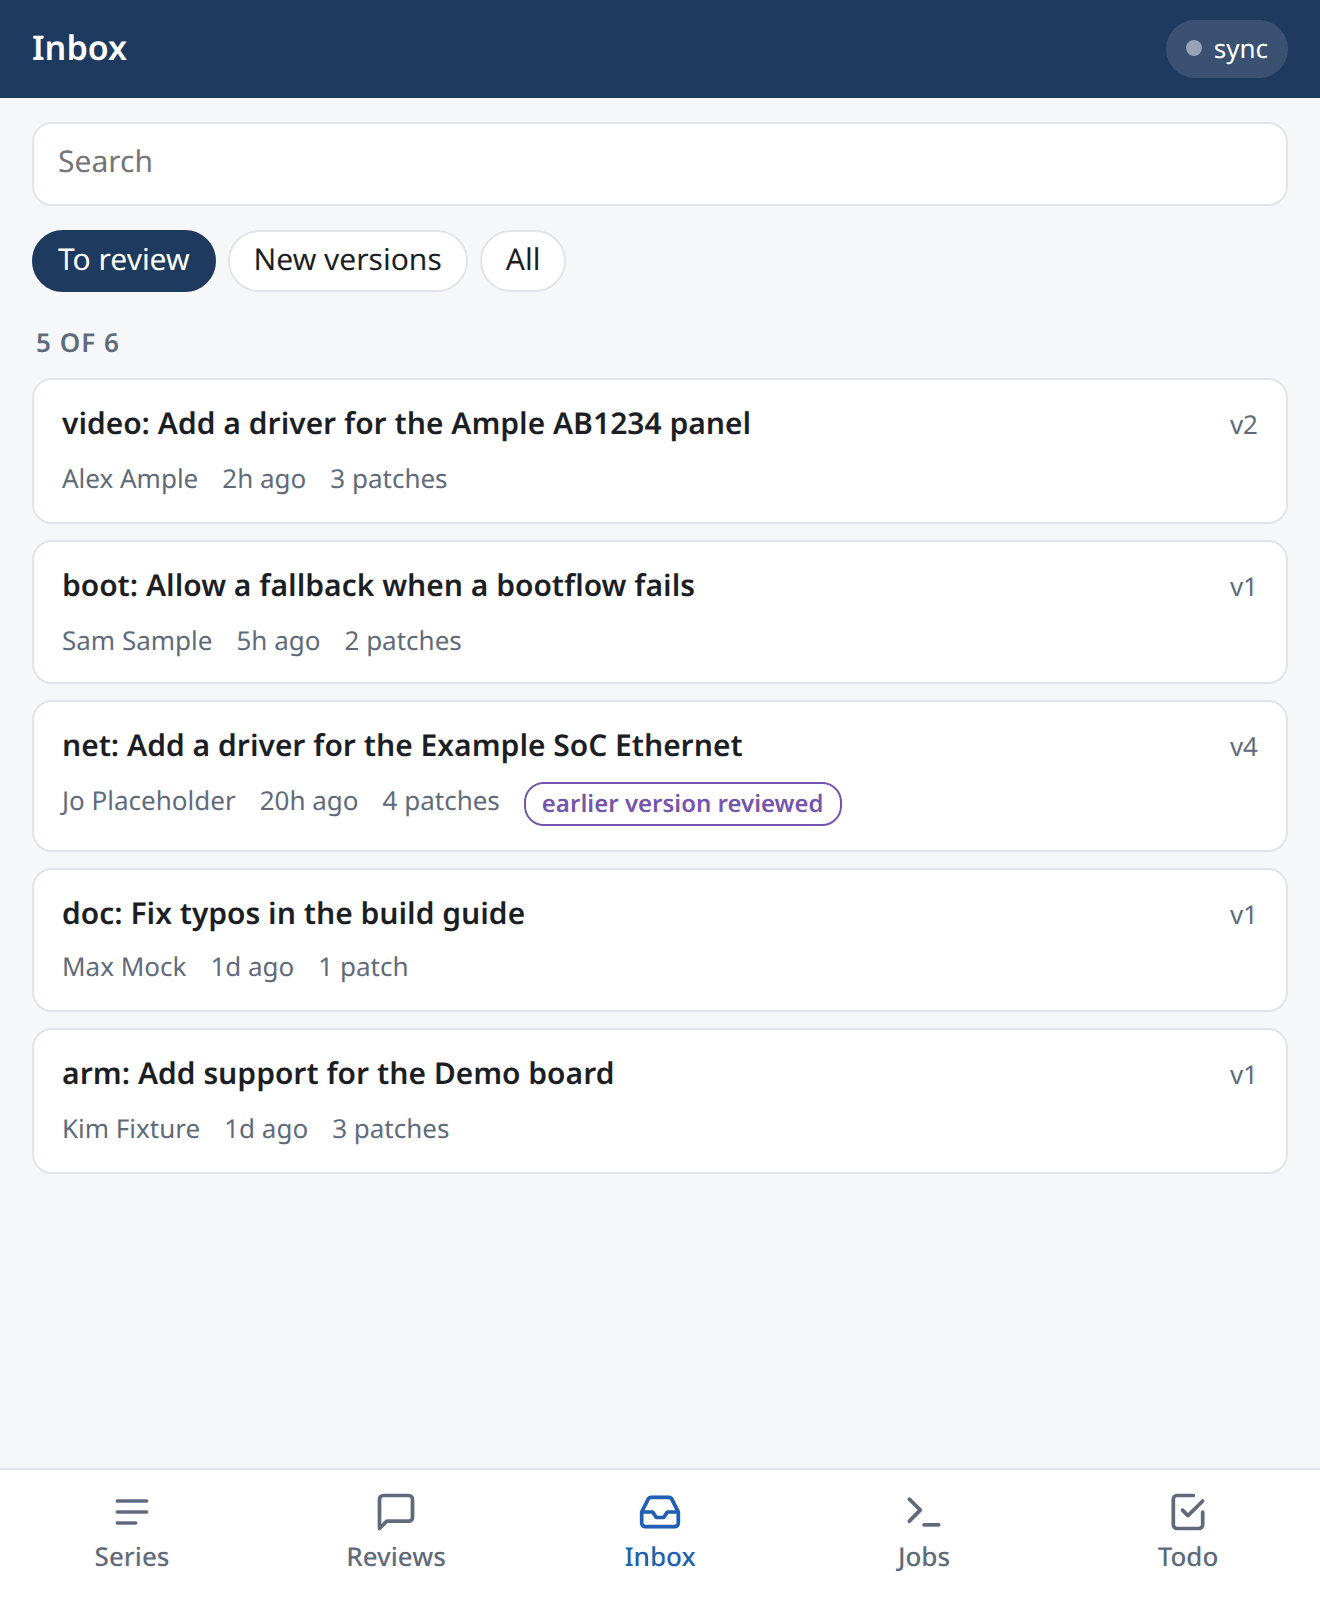
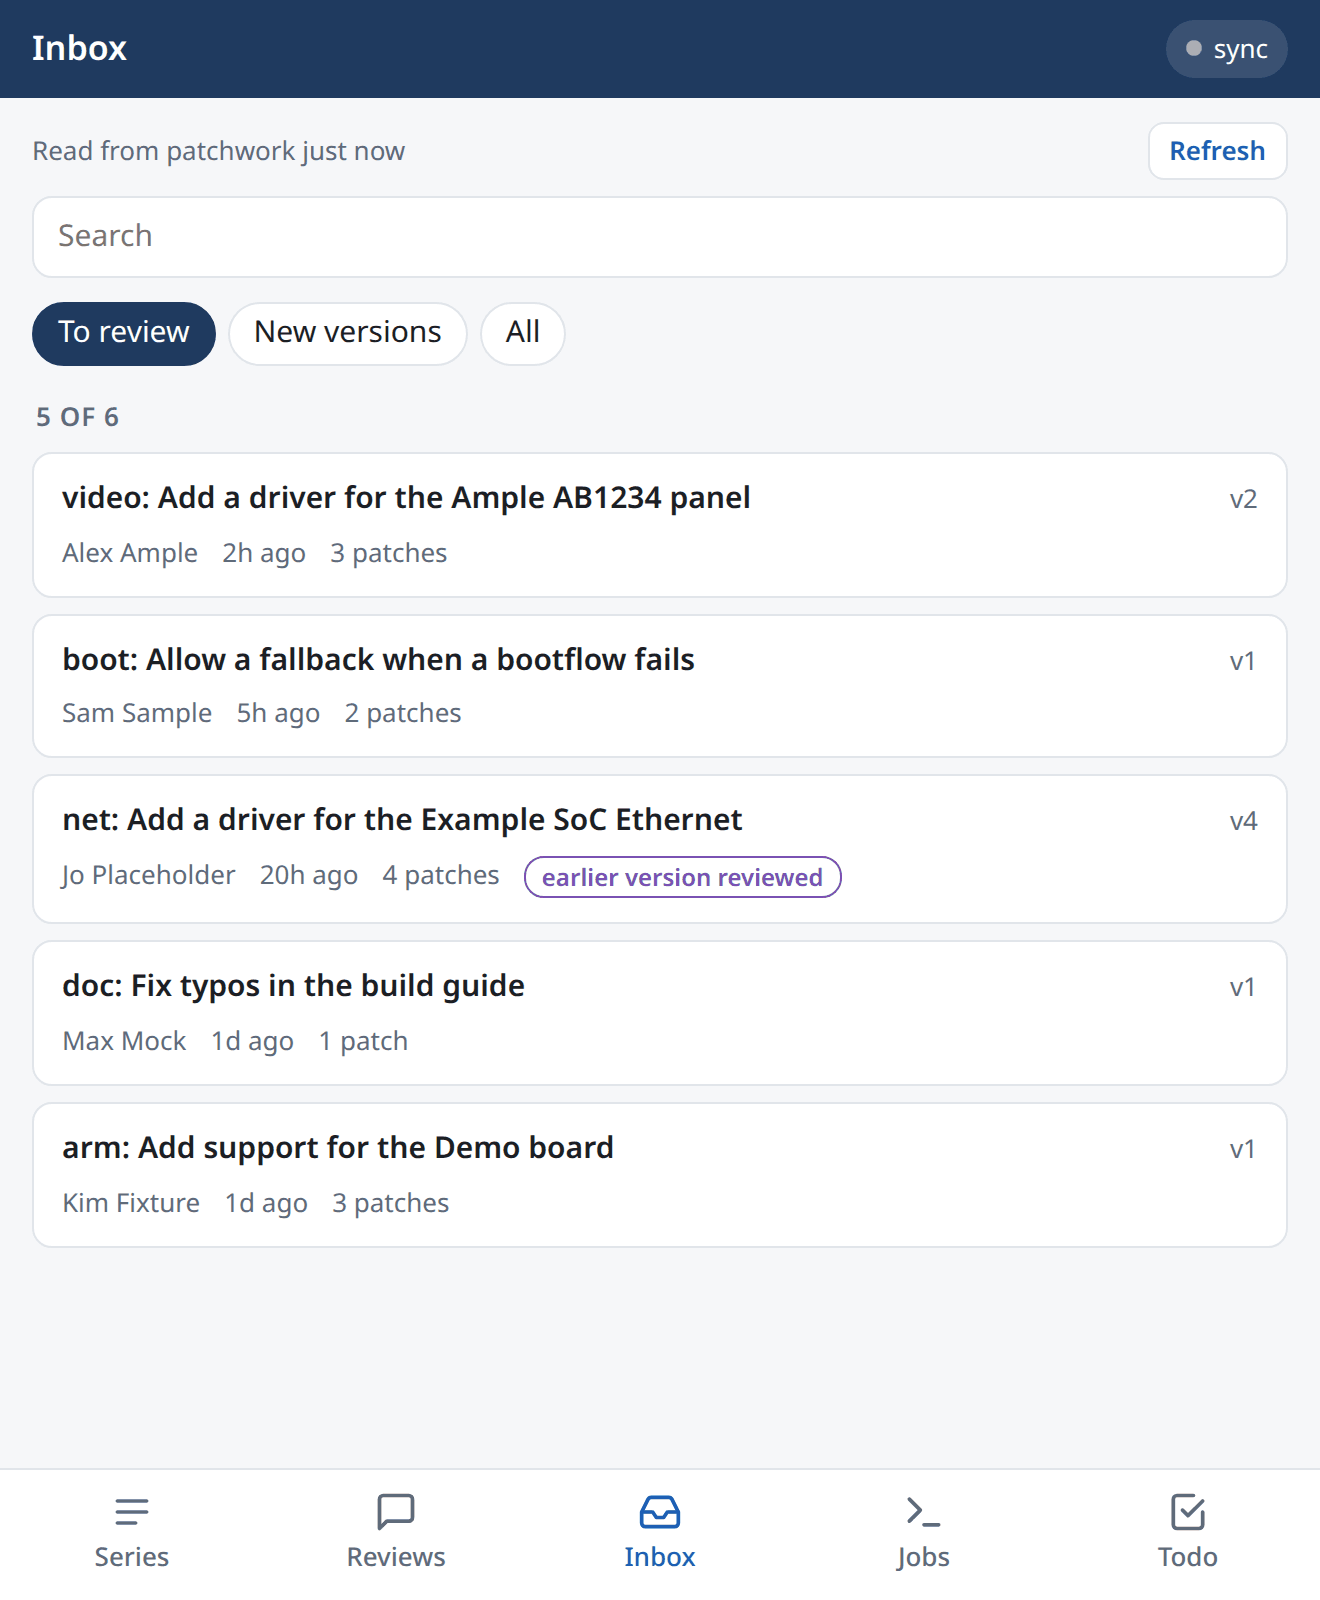
serve: Keep the inbox read from patchwork for ten minutes
The server reads the inbox from patchwork each time it is shown, so
switching to another tab and back, or opening the page on a phone as
well as the desk, sends the same request again, though the newest
series on patchwork change only now and then.

Keep each page of the inbox which the server reads, for each patchwork
server and project, for INBOX_KEEP seconds (ten minutes), timed from
when it reads the first page. Reading the first page again drops the
others, so that 'Load more' follows on from it. GET /api/inbox gives
'fetched', saying when the first page was read, and takes 'refresh=1'
to read it from patchwork anyway.

The inbox says when it was read, with 'Refresh' to read it again. Take
the guide's picture of the inbox again, since it shows this now.

Co-developed-by: Claude Opus 5.5 <noreply@anthropic.com>

diff --git a/patman/web/app.js b/patman/web/app.js
@@ -1766,7 +1766,9 @@ function inboxCard(s, ups, pw) {
   return { card, text: `${s.name} ${s.submitter || ''}`, groups };
 }
 
-async function viewInbox(more) {
+// Show the inbox; 'more' adds the next page, and 'refresh' has the server read
+// it from patchwork again rather than use what it read in the last few minutes
+async function viewInbox(more, refresh) {
   const upstreams = await api('upstreams').catch(() => []);
   let ups = null;
   try { ups = localStorage.getItem('patman-inbox-ups'); } catch (e) { /* ignore */ }
@@ -1777,7 +1779,9 @@ async function viewInbox(more) {
   if (!more || !inbox || inbox.ups !== ups) {
     inbox = { ups, page: 0, series: [], done: false };
   }
-  const data = await api(`inbox?ups=${encodeURIComponent(ups)}&page=${inbox.page + 1}`);
+  const data = await api(`inbox?ups=${encodeURIComponent(ups)}&page=${inbox.page + 1}` +
+                         (refresh ? '&refresh=1' : ''));
+  if (inbox.page === 0) inbox.fetched = data.fetched;
   inbox.page = data.page;
   inbox.series.push(...data.series);
   inbox.done = data.series.length < data.per_page;
@@ -1795,7 +1799,14 @@ async function viewInbox(more) {
       ev.target.disabled = true;
       viewInbox(true).catch((err) => showError(err, 'inbox'));
     } }, 'Load more'));
-  setView('Inbox', 'inbox', false, upsTabs,
+  const fetched = h('div', { class: 'row fetched' },
+    h('span', { class: 'grow ver' }, `Read from patchwork ${ago(parseTime(inbox.fetched))}`),
+    h('button', { class: 'btn light small', title: 'Read the newest series from patchwork again',
+                  onclick: (ev) => {
+      ev.target.disabled = true;
+      viewInbox(false, true).catch((err) => showError(err, 'inbox'));
+    } }, 'Refresh'));
+  setView('Inbox', 'inbox', false, upsTabs, fetched,
     ...filteredList('inbox', inbox.series.map((s) => inboxCard(s, ups, pw)),
                     [['todo', 'To review',
                       'Series which you have not reviewed and are not yours'],

diff --git a/patman/web/app.css b/patman/web/app.css
@@ -101,6 +101,7 @@ nav a.active { color: var(--link); }
 a.card:active { background: var(--code-bg); }
 .row { display: flex; align-items: baseline; gap: 8px; }
 .row .grow { flex: 1; min-width: 0; }
+.row.fetched { align-items: center; margin-bottom: 8px; }
 .name { font-weight: 600; overflow-wrap: anywhere; }
 .desc { color: var(--muted); font-size: 14px; margin-top: 2px; overflow-wrap: anywhere; }
 .meta { color: var(--muted); font-size: 13px; margin-top: 6px;

diff --git a/patman/server/app.py b/patman/server/app.py
@@ -14,6 +14,7 @@ import ipaddress
 import os
 import re
 import subprocess
+import time
 
 import aiohttp
 from aiohttp import web
@@ -40,6 +41,10 @@ JOBS_FNAME = '.patman-serve-jobs.json'
 
 # Number of series in each page of the inbox
 INBOX_PAGE = 50
+
+# Seconds for which the inbox read from patchwork is kept, so that showing it
+# again does not read it again
+INBOX_KEEP = 10 * 60
 
 
 # Arguments of 'patman review' which act on stored reviews rather than review
@@ -109,6 +114,12 @@ class Server(jobs.JobRunner):
 
         # Reviewed versions which patchwork says have no cover letter
         self._no_cover = set()
+
+        # The inbox for each patchwork server and project, as read from it:
+        # a dict with 'read' (monotonic time), 'fetched' (time, as in the
+        # database) and 'pages' (dict of page number to list of series)
+        self._inbox_kept = {}
+        self._clock = time.monotonic
 
     def get_pw_url(self, ups):
         """Get the patchwork URL for an upstream
@@ -732,6 +743,11 @@ class Server(jobs.JobRunner):
         The 'ups' query parameter selects the upstream, defaulting to the
         default one, and 'page' selects the page of results.
 
+        What is read from patchwork is kept for INBOX_KEEP seconds, so that
+        showing the inbox again, from this page or another, does not read it
+        again; 'refresh=1' reads it anyway. Reading the first page again
+        drops the others, so that they follow on from it.
+
         Args:
             request (web.Request): Request
 
@@ -749,15 +765,27 @@ class Server(jobs.JobRunner):
         if not proj:
             raise ValueError(f"No patchwork project for upstream '{ups}'")
         pwork = self.get_pwork(ups)
-        async with aiohttp.ClientSession() as client:
-            series_list = await pwork.get_recent_series(client, proj[2], page,
-                                                        INBOX_PAGE)
+        key = (pwork.url, proj[2])
+        kept = self._inbox_kept.get(key)
+        if (request.query.get('refresh') == '1' or not kept or
+                (page == 1 and self._clock() - kept['read'] > INBOX_KEEP)):
+            kept = None
+        series_list = kept and kept['pages'].get(page)
+        if series_list is None:
+            async with aiohttp.ClientSession() as client:
+                series_list = await pwork.get_recent_series(
+                    client, proj[2], page, INBOX_PAGE)
+            if not kept:
+                kept = {'read': self._clock(), 'fetched': times.now_str(),
+                        'pages': {}}
+                self._inbox_kept[key] = kept
+            kept['pages'][page] = series_list
         series = info.get_inbox(self.cser, self.rcser, series_list)
         for item in series:
             item['job'] = self._reviewing(item['id'])
         return web.json_response({
             'ups': ups, 'page': page, 'per_page': INBOX_PAGE,
-            'series': series})
+            'fetched': kept['fetched'], 'series': series})
 
     def _job_state(self, job):
         """Get the state of a job, with the reviewed series it acts on

diff --git a/patman/test_server.py b/patman/test_server.py
@@ -1480,6 +1480,54 @@ class TestWebServer(unittest.TestCase, TestCommon):
             f'Series 400 is already being reviewed, by job {reviewing.idnum}',
             data['error'])
 
+    def test_inbox_keep(self):
+        """The inbox is kept for a while, rather than read each time"""
+        db = self.cser.db
+        db.upstream_add('us', 'https://us', 'https://pw.us')
+        db.upstream_set_default('us')
+        db.patchwork_update('U-Boot', 6, 'uboot', 'us')
+        db.commit()
+
+        reads = []
+        def read(subpath):
+            reads.append(subpath)
+            return [{'id': len(reads), 'name': 'video: Add a driver',
+                     'version': 1, 'patches': []}]
+
+        srv = self.make_server()
+        srv.pwork_for_testing.fake_request = read
+        now = [1000.0]
+        srv._clock = lambda: now[0]
+        query = 'series/?project=uboot&order=-date&page={}&per_page=50'
+
+        def inbox(args=''):
+            status, data = self.call(srv, 'GET', f'/api/inbox{args}')
+            self.assertEqual(200, status)
+            return data['series'][0]['id'], data['fetched']
+
+        with mock.patch.object(server.app.times, 'now_str',
+                               return_value='2026-10-19 11:00:00'):
+            self.assertEqual((1, '2026-10-19 11:00:00'), inbox())
+
+        # Showing it again, or its next page twice, reads only that page
+        now[0] += server.app.INBOX_KEEP
+        self.assertEqual((1, '2026-10-19 11:00:00'), inbox())
+        self.assertEqual(2, inbox('?page=2')[0])
+        self.assertEqual(2, inbox('?page=2')[0])
+        self.assertEqual([query.format(1), query.format(2)], reads)
+
+        # Once it is too old, it is read again, along with the next page
+        now[0] += 1
+        with mock.patch.object(server.app.times, 'now_str',
+                               return_value='2026-10-19 11:10:01'):
+            self.assertEqual((3, '2026-10-19 11:10:01'), inbox())
+        self.assertEqual(4, inbox('?page=2')[0])
+
+        # A refresh reads it at once
+        self.assertEqual(5, inbox('?refresh=1')[0])
+        self.assertEqual(5, inbox()[0])
+        self.assertEqual(5, len(reads))
+
     def test_patchwork_retry(self):
         """Patchwork requests are retried when the server is slow or busy"""
         calls = []

diff --git a/patman/serve.rst b/patman/serve.rst
@@ -135,10 +135,13 @@ Series which you have reviewed, or which are your own, are marked, as are new
 versions of series you reviewed earlier, so it is easy to see what needs a
 review. Tap a series to see its patches and start a review.
 
-The inbox is read from patchwork each time it is shown, one request for the 50
-newest series. Nothing more is read until you tap 'Load more' at the bottom,
-which reads the next 50; the button goes once patchwork has no more. Tapping a
-series uses what was read already, while reading a patch asks patchwork for it.
+The inbox is read from patchwork with one request for the 50 newest series.
+The server keeps what it reads for ten minutes, so going back to the Inbox tab,
+or opening it on another device, does not read it again; the top of the inbox
+says when it was read, and 'Refresh' reads it again at once. Nothing more is
+read until you tap 'Load more' at the bottom, which reads the next 50; the
+button goes once patchwork has no more. Tapping a series uses what was read
+already, while reading a patch asks patchwork for it.
 
 'Review' on a series starts the review as a job, but the inbox stays where it
 is, so you can start reviews of other series too. Each series shows how its

diff --git a/doc/serve-protocol.rst b/doc/serve-protocol.rst
@@ -283,8 +283,16 @@ The upstreams which have a patchwork server, each an object with ``name``,
 The most recent series on the patchwork server of an upstream, for choosing
 what to review. The ``ups`` query parameter gives the upstream, defaulting to
 the default upstream, which must have a patchwork project. The ``page`` query
-parameter gives the page, starting at 1, with 50 series on each. The response
-has ``ups``, ``page``, ``per_page`` and ``series``, a list of objects with:
+parameter gives the page, starting at 1, with 50 series on each.
+
+The server keeps each page it reads from patchwork for ten minutes, timed
+from when it read the first page, and reading the first page again drops
+the others. With ``refresh=1``, it reads the page from patchwork whatever it
+has kept.
+
+The response has ``ups``, ``page``, ``per_page``, ``fetched`` (when the
+server read the first page from patchwork, as a local time like
+``2026-10-19 11:00:00``) and ``series``, a list of objects with:
 
 - ``id`` (int): patchwork series ID
 - ``name`` (str): name of the series

diff --git a/doc/guide/serve-reviews.rst b/doc/guide/serve-reviews.rst
@@ -53,7 +53,9 @@ Choosing a series
 
 The Inbox tab lists the newest series on patchwork. 'To review' shows those
 which you have not reviewed and which are not yours, and 'New versions' those
-for which you reviewed an earlier version, such as the Ethernet driver here:
+for which you reviewed an earlier version, such as the Ethernet driver here.
+The server reads the list from patchwork at most every ten minutes, unless
+you tap 'Refresh':
 
 .. image:: images/serve-inbox.png
    :width: 660px

diff --git a/CHANGELOG.rst b/CHANGELOG.rst
@@ -8,6 +8,13 @@ the project follows `Semantic Versioning <https://semver.org/>`_.
 Unreleased
 ----------
 
+Changed
+~~~~~~~
+- ``patman serve`` keeps the inbox it reads from patchwork for ten minutes,
+  so that showing it again, on any device, sends no requests. The inbox says
+  when it was read and has 'Refresh' to read it again. ``GET /api/inbox``
+  gives ``fetched`` and takes ``refresh=1``.
+
 0.5.0 - 2026-10-19
 ------------------
 
